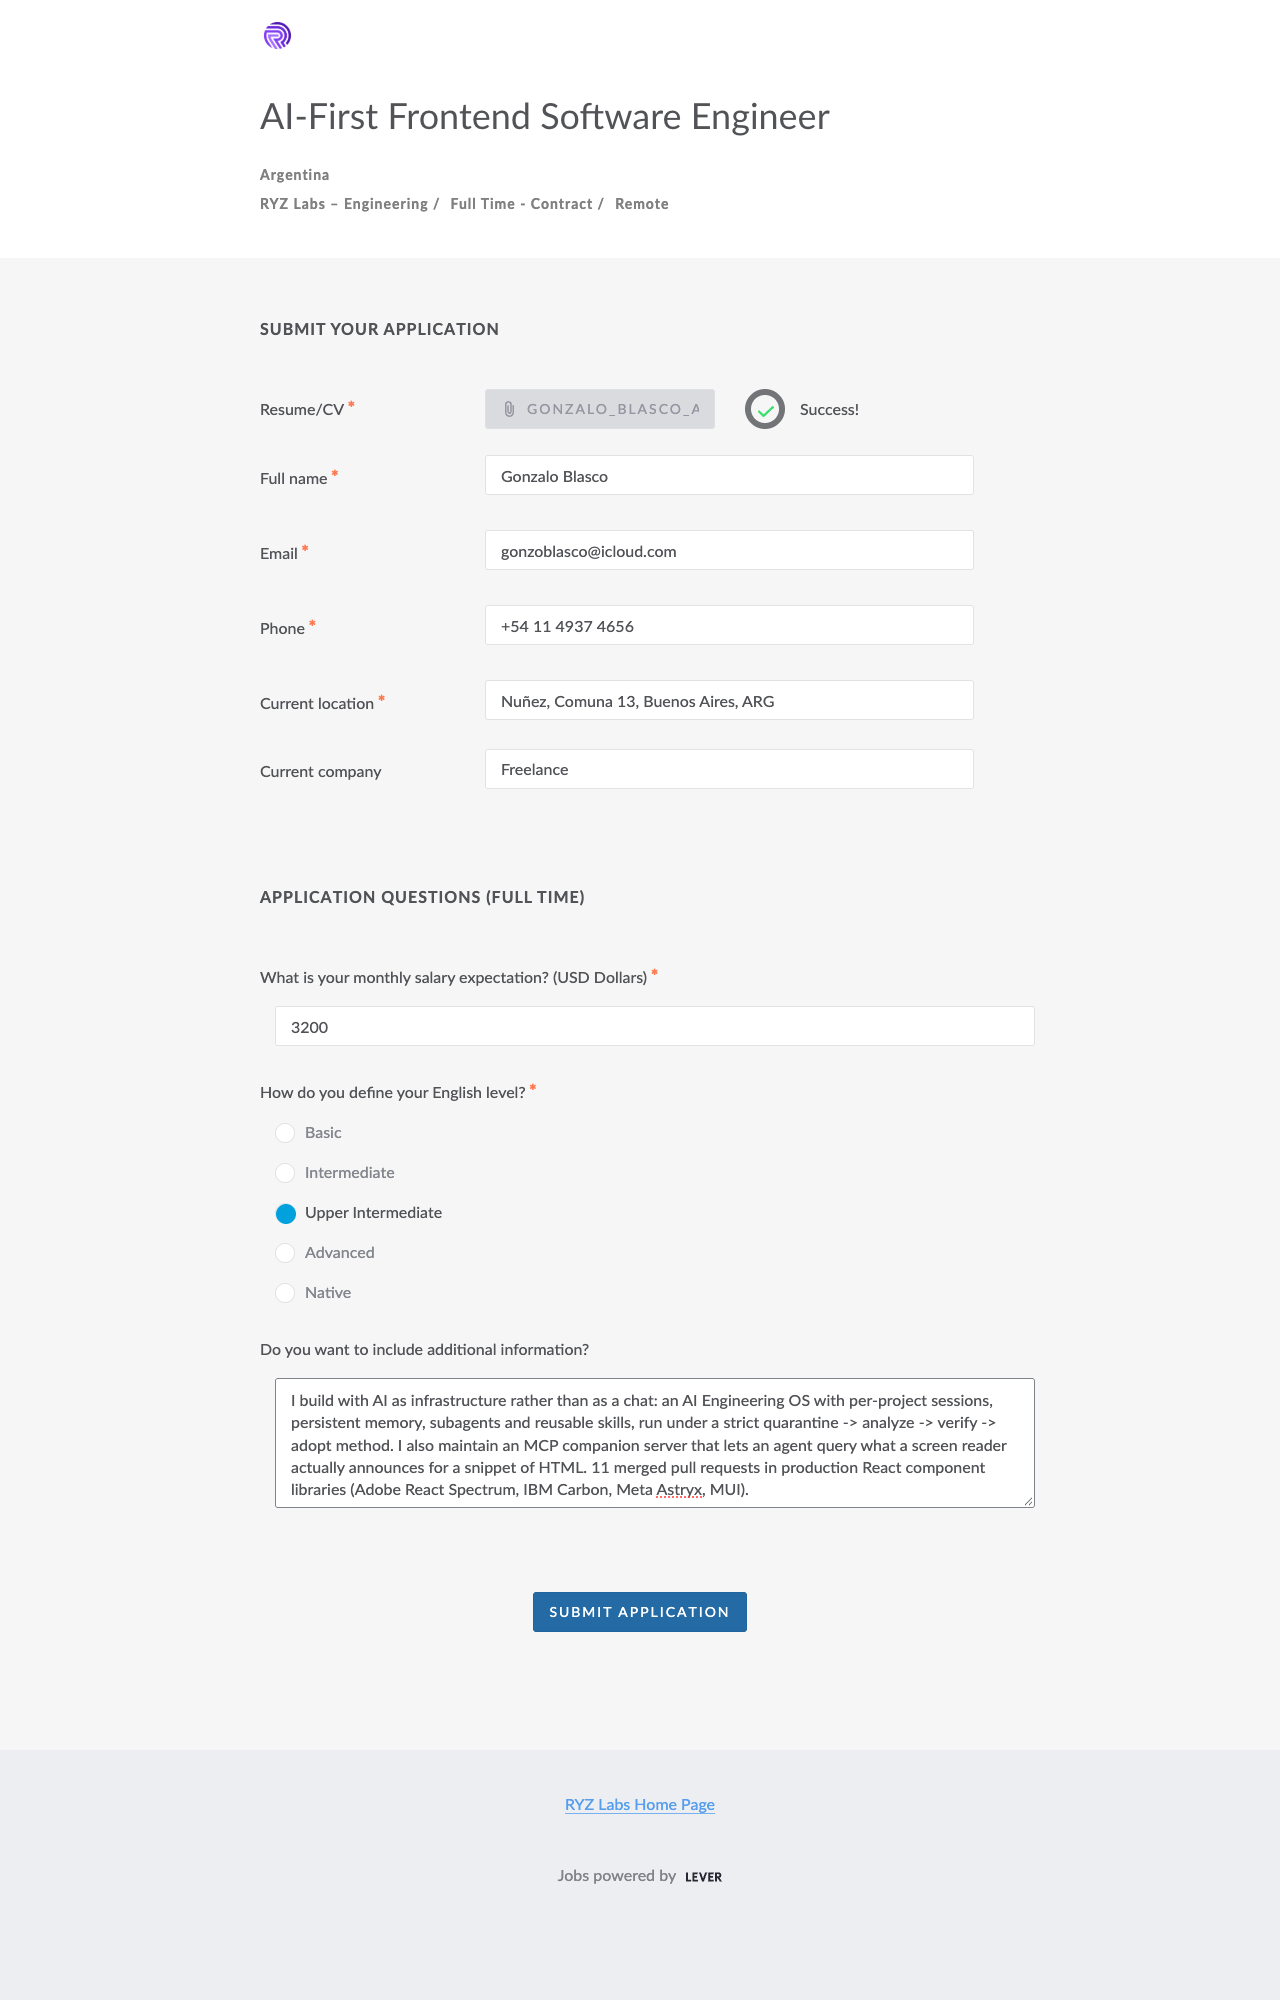
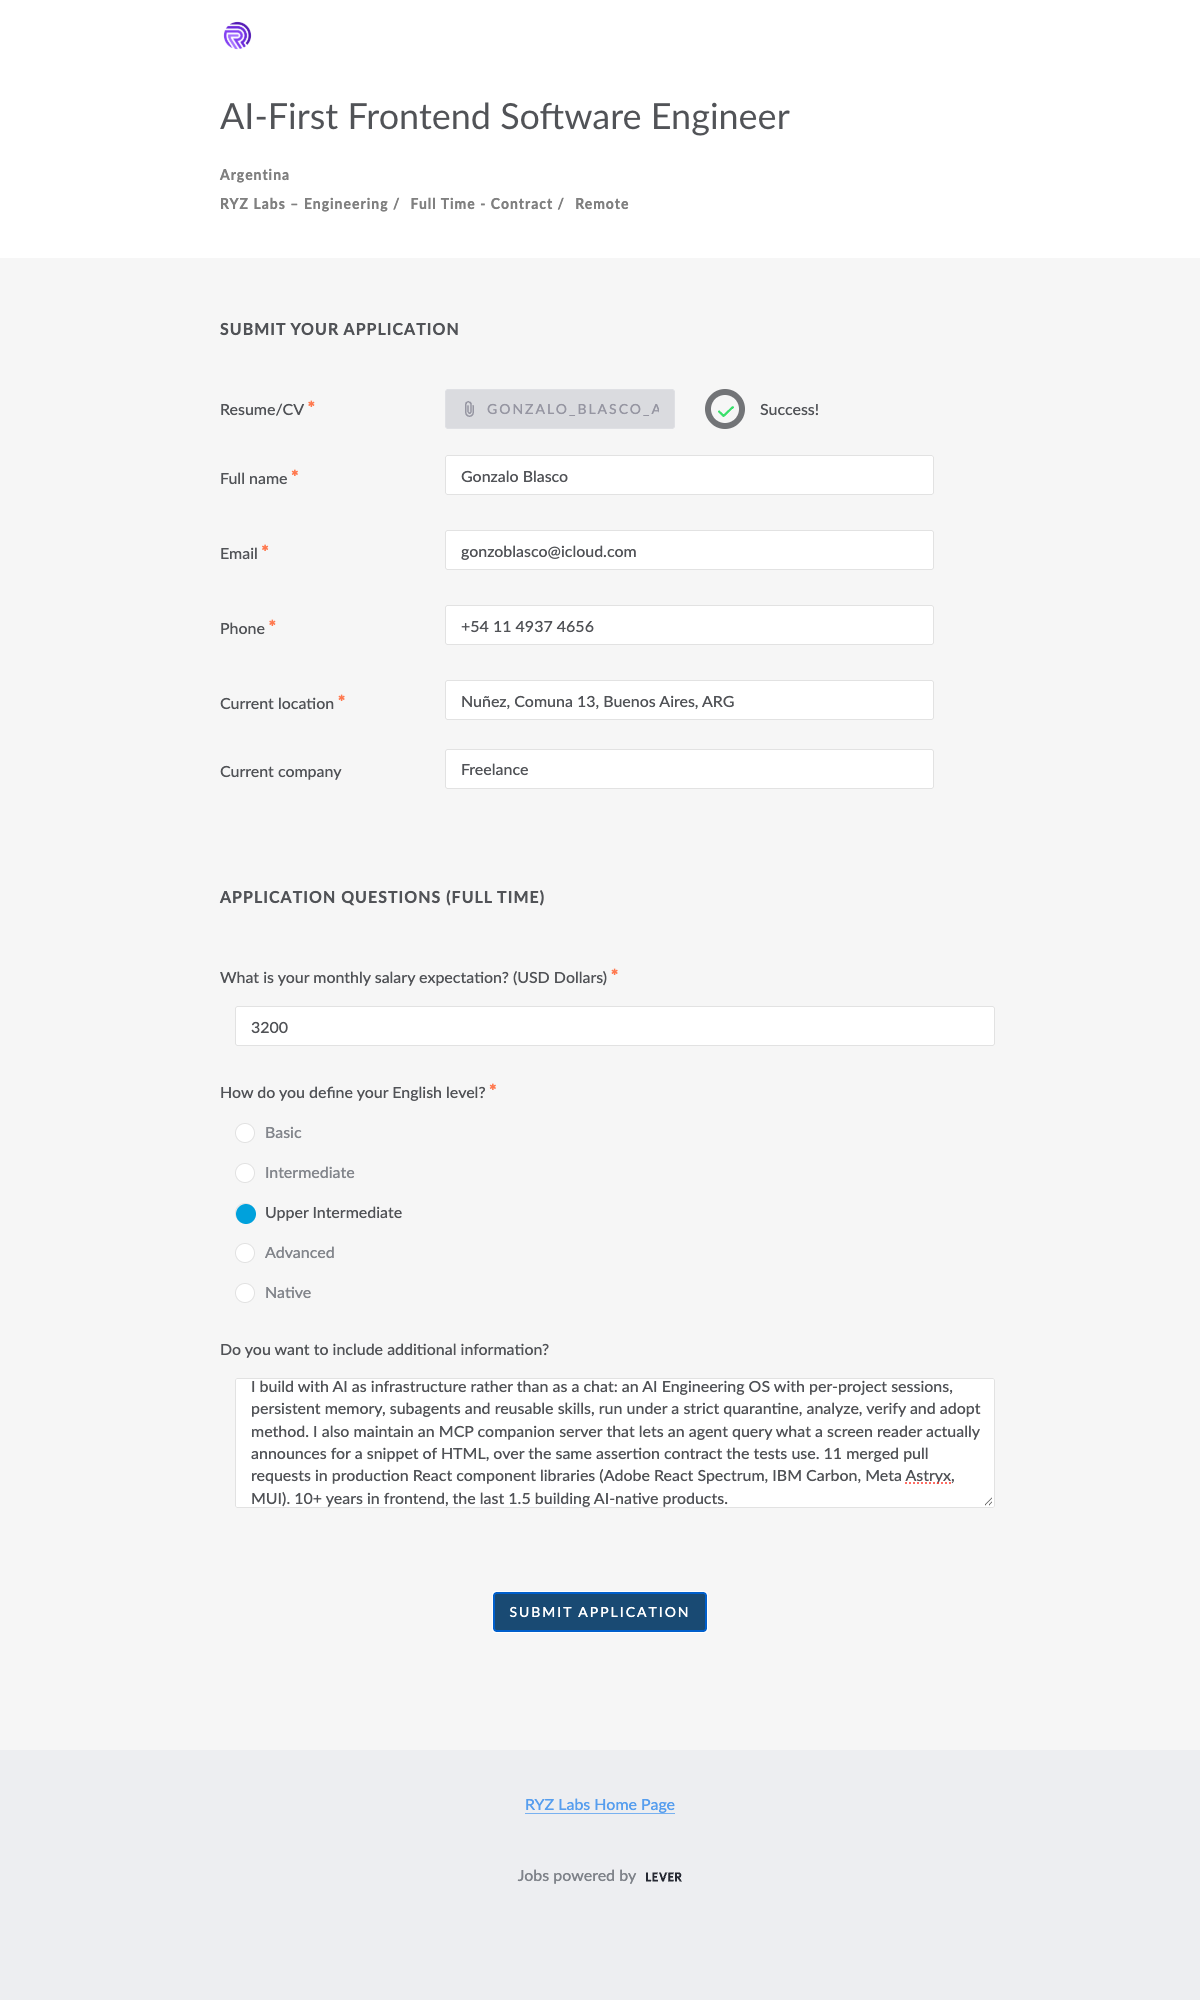
fix(job-application): los tres ATS verificados end-to-end (Ashby, Lever y Eightfold)
Probar los dos adaptadores que faltaban (Lever y Ashby) encontro cuatro bugs
mas, y uno era el peor de todos: el gate de "no enviar si hay divergencias"
era un no-op en Ashby y un falso positivo en Lever.

1. Ashby: el formulario no hidrata con `domcontentloaded` (0 inputs; hidrata
   ~2s despues). Y el bug de gallina y huevo: la espera de 12s por el parseo
   del CV estaba DENTRO del `if` que encuentra el input de CV, pero ese input
   solo existe despues de hidratar. Sin CV no habia espera, y los textos se
   escribian contra un formulario vacio: el reporte decia "5 campos
   faltantes" con la pagina llena. Ahora hay un waitForSelector al
   principio, que no depende de nada opcional.
2. Ashby: los radios no se verificaban. Se hacia click y se asumia que
   habia funcionado. Ahora se lee que opcion quedo marcada en cada grupo,
   por el texto de su etiqueta. El gate nuevo dio ok:false con los radios
   BIEN marcados, por un bug del propio gate: truncaba el name del grupo con
   split("_"), y el nombre de Ashby es "<uuid>_e7e51cb6-...": al truncar,
   "veteran_status" se confundia con "eeoc_veteran_status".
3. Lever: los inputs NO tienen _valueTracker (no es un form React). El gate
   comparaba el valor del DOM contra "" y reportaba divergencia en TODOS los
   campos, con el formulario impecable: un falso positivo que hacia parecer
   roto lo que funcionaba. Ahora distingue divergente (hay tracker y
[…]

diff --git a/tests/node/job-application.test.js b/tests/node/job-application.test.js
@@ -60,6 +60,32 @@ class FakeLocator {
   }
 }
 
+// Un locator SIN _valueTracker: los forms que no son React (Lever) no lo
+// tienen. El gate tiene que distinguir "no verificable" de "divergente".
+class FakeLocatorSinTracker {
+  constructor(dom) {
+    this._dom = dom;
+  }
+  async inputValue() {
+    return this._dom;
+  }
+  async evaluate(fn) {
+    return fn({}); // sin _valueTracker
+  }
+  async count() {
+    return 1;
+  }
+}
+
+class FakePageSinTracker {
+  constructor(map) {
+    this.map = map;
+  }
+  locator(sel) {
+    return new FakeLocatorSinTracker(this.map[sel] || '');
+  }
+}
+
 class FakePage {
   constructor(map) {
     this.map = map; // selector -> {dom,react}
@@ -96,6 +122,31 @@ setTimeout(() => {
     report('verifyFields detects divergencias', div.length === 1 && div[0].selector === '#phone');
   }).catch((e) => {
     console.error('verifyFields error', e);
+    process.exitCode = 1;
+  });
+
+  // ==== verifyFields: form NO-React (Lever) ==== //
+  // BUG CORREGIDO 2026-10-25: los inputs de Lever no tienen
+  // _valueTracker. El gate comparaba el DOM contra "" y reportaba
+  // divergencia en TODOS los campos, con el formulario impecable: un falso
+  // positivo que hacia parecer roto lo que funcionaba.
+  const fakePageSinTracker = new FakePageSinTracker({
+    '#name': 'Gonzalo Blasco',
+    '#salary': '3200',
+  });
+  verifyFields(fakePageSinTracker, ['#name', '#salary']).then((div) => {
+    report(
+      'verifyFields: sin tracker NO reporta divergencia',
+      div.length === 0,
+      JSON.stringify(div)
+    );
+    report(
+      'verifyFields: sin tracker queda como no verificable',
+      (div.noVerificables || []).length === 2,
+      JSON.stringify(div.noVerificables)
+    );
+  }).catch((e) => {
+    console.error('verifyFields (sin tracker) error', e);
     process.exitCode = 1;
   });
 

diff --git a/docs/CHANGELOG.md b/docs/CHANGELOG.md
@@ -128,6 +128,31 @@ Registro de cambios estructurales del workspace. Contiene las entradas de los **
 
 ---
 
+## [2026-10-25] - Los tres ATS verificados end-to-end: Ashby, Lever y Eightfold probados de verdad
+
+### Fixed
+Probar los adaptadores de Lever y Ashby (los dos que faltaban) encontro cuatro bugs mas, y uno era el peor de todos: **el gate de "no enviar si hay divergencias" era un no-op en Ashby y un falso positivo en Lever.**
+
+1. **Ashby: el formulario no hidrata con `domcontentloaded`** (0 inputs; hidrata ~2s despues). Y el bug de gallina y huevo: la espera de 12s por el parseo del CV estaba DENTRO del `if` que encuentra el input de CV, pero ese input solo existe despues de hidratar. Sin CV no habia espera, y los textos se escribian contra un formulario vacio: **el reporte decia "5 campos faltantes" con la pagina llena**. Ahora hay un `waitForSelector` al principio, que no depende de nada opcional.
+2. **Ashby: los radios no se verificaban.** Se hacia click y se asumia que habia funcionado. Ahora se lee que opcion quedo marcada en cada grupo, por el texto de su etiqueta. El gatelv2immediate dio `ok: false` con los radios BIEN marcados, por un bug del propio gate: truncaba el `name` del grupo con `split("_")`, y el nombre de Ashby es `<uuid>_e7e51cb6-...`: al truncar, "veteran_status" se confundia con "eeoc_veteran_status". Se busca por fragmento sobre el name completo.
+3. **Lever: los inputs NO tienen `_valueTracker`** (no es un form React). El gate comparaba el valor del DOM contra `""` y reportaba divergencia en TODOS los campos, con el formulario impecable: **un falso positivo que hacia parecer roto lo que funcionaba**. Ahora distingue tres estados: divergente (hay tracker y difieren), no verificable (no hay tracker: el DOM es la unica evidencia) y ok. Los no verificables se reportan aparte, para que la verificacion parcial sea visible.
+4. **Lever: el pitch se perdia.** El campo "Do you want to include additional information?" (donde va el AI Engineering OS, el servidor MCP y los 11 PRs) se llenaba con `answers.coverLetterText`, que es la cover letter - un archivo. En Lever la cover letter no se sube: es texto. El campo quedaba VACIO y el reporte lo daba por bien. Ahora usa la clave semantica `additionalInfo`.
+
+### Added
+- **Verificacion de radios en los dos adaptadores que no la tenian** (Ashby y Lever): no alcanza con que el click no tirara error, hay que leer que opcion quedo marcada.
+- **Dos tests nuevos** para el falso positivo de los forms no-React (`verifyFields` con un input sin tracker: no reporta divergencia, y queda como "no verificable").
+- **Evidencia de las tres corridas** en `docs/entrevistas/_general/outreach-2026-10-22/evidencia/`: `ashby-form-filled.png`, `ryz-form-filled.png`, `meli-form-filled-submitted.png`.
+
+### Notes
+- **Los tres adaptadores quedan probados end-to-end contra los formularios reales:**
+  - **Eightfold** (Mercado Pago): 6 campos + 4 desplegables + CV, `ok: true`, 0 divergentes.
+  - **Ashby** (Mural): 5 campos + 5 radios verificados + CV + cover letter, `ok: true`, 0 divergentes.
+  - **Lever** (RYZ): 6 campos + radio de ingles verificado + CV + pitch, `ok: true`, `captcha: true` (el unico que queda pendiente de un humano, y es el hCaptcha de siempre).
+- **El captcha de Lever se reporta como `captcha: true` y NO se intenta resolver.** Es el comportamiento correcto segun ADR-104: un captcha detecta el contexto, no los intentos.
+- **Una leccion que se repite y que queda escrita: el `ok: true` de un gate no es prueba de nada si el gate no verifica lo que dice verificar.** El gate de radios de Ashby daba `ok` sin mirar los radios; el de Lever daba divergencia en un formulario impecable. Los dos se detectaron mirando la CAPTURA, no leyendo el codigo ni el exit code.
+
+---
+
 ## [2026-10-25] - El radar de vacantes deja de romperse en silencio
 
 ### Added
